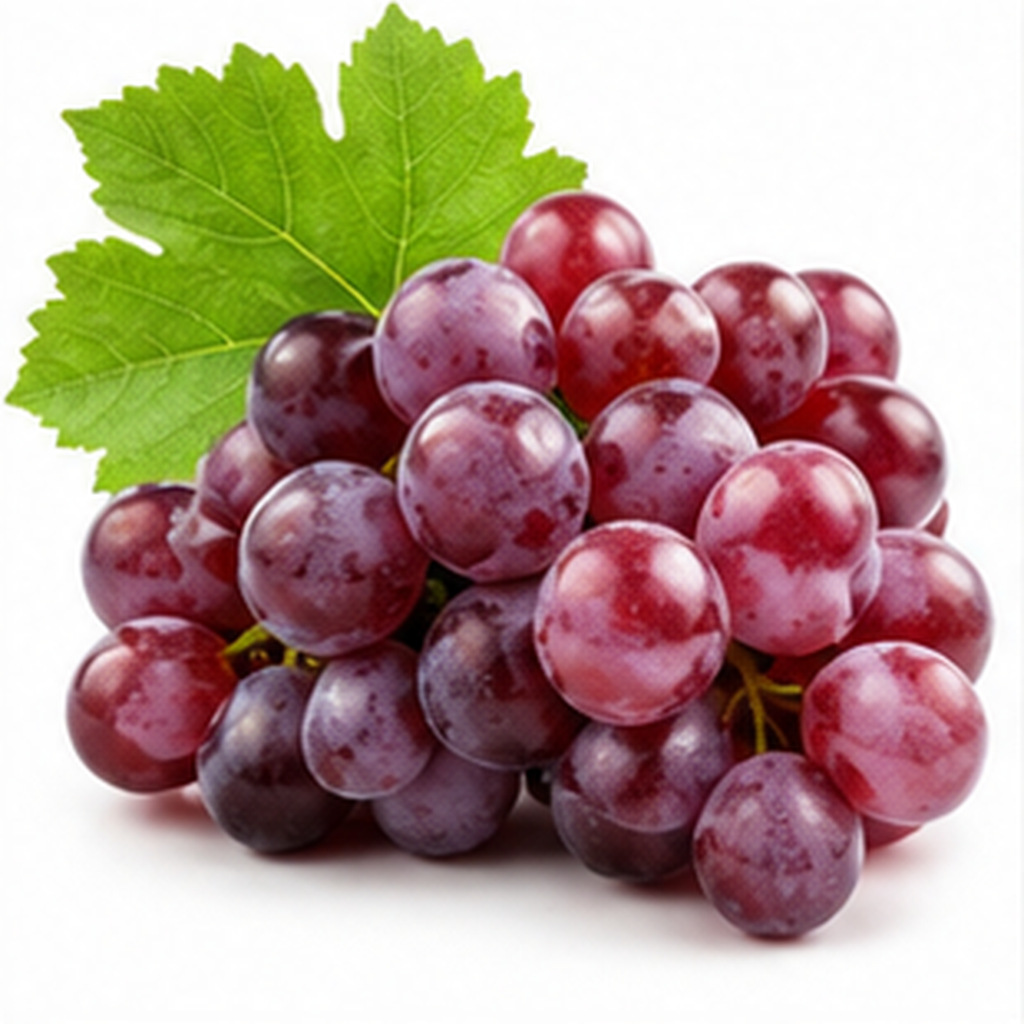
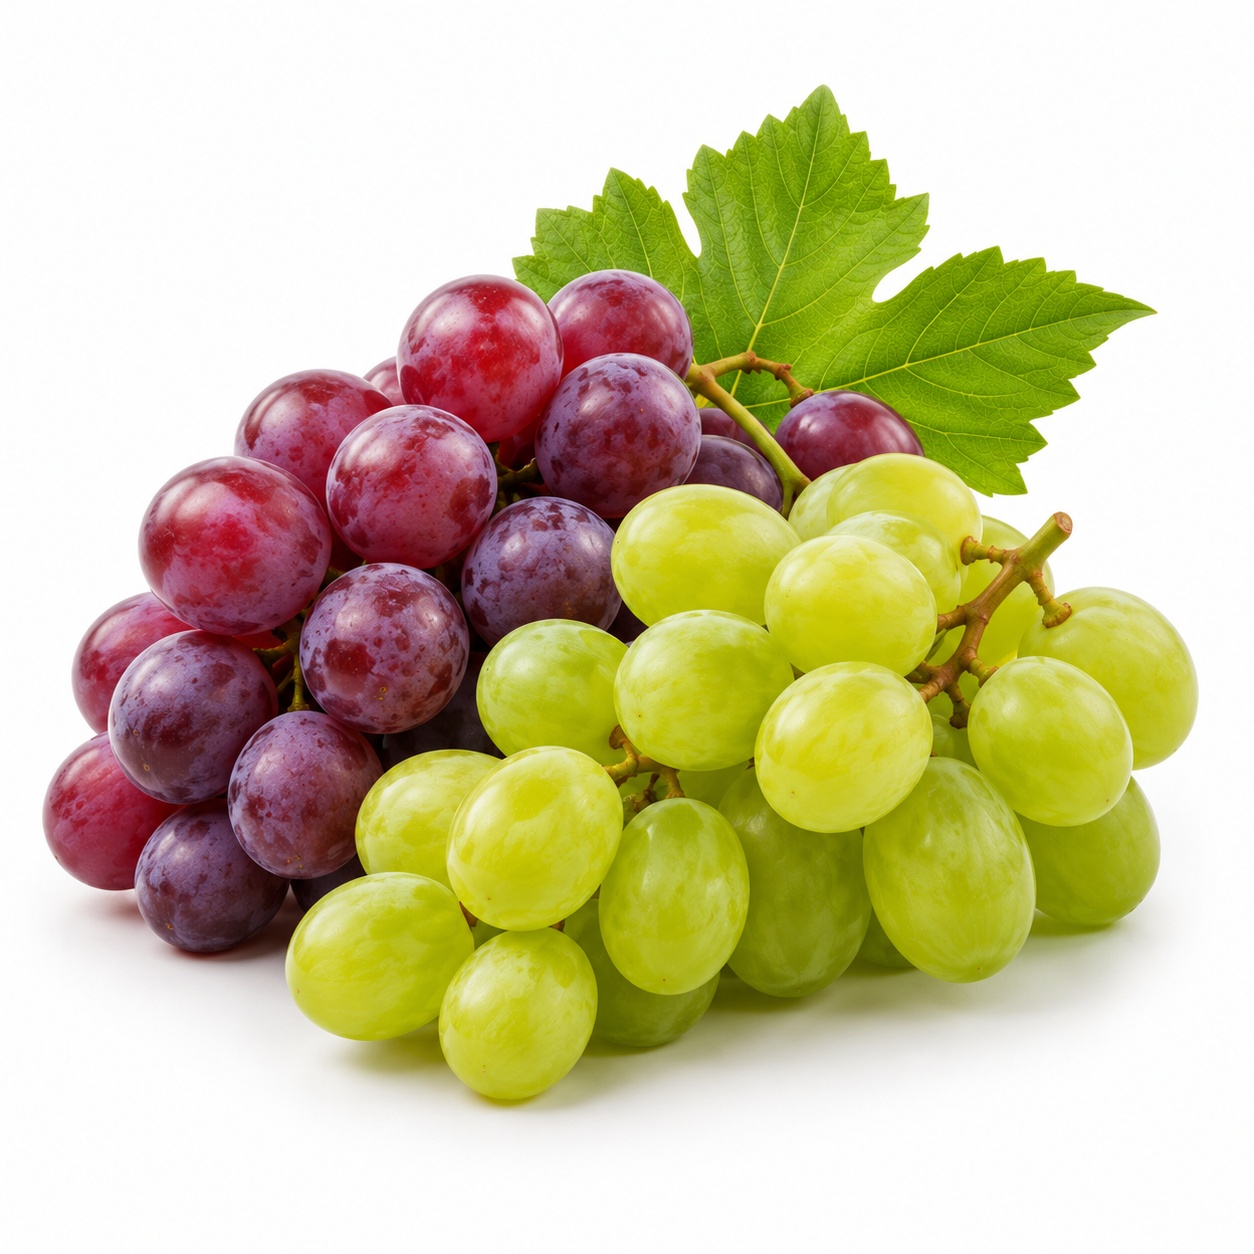
frutas.js acabado

diff --git a/Elsa/js/frutas.js b/Elsa/js/frutas.js
@@ -2,5 +2,96 @@
 
 
 function mostrarCultivos() {
+    // PASO 1: Leer lo que hay en cada desplegable 
+    const tipo = document.getElementById("filtro-tipo").value; 
+    const color = document.getElementById("filtro-color").value; 
+    const temporada = document.getElementById("filtro-temporada").value; 
+
+    // PASO 2: Filtramos
+    let lista = cultivos;
+
+    if (tipo !== "todos") { // si se ha puesto todos --> no filtra
+        const pasanFiltro = []; // vector donde vamos a guardar las frutas/verduras que pasan el filtro
+        for (const cultivo of lista) {
+            if (cultivo.tipo === tipo) { // si coincide con el elegido lo guardamos
+                pasanFiltro.push(cultivo); // push = guardar al final del vector
+            }
+        }
+        lista = pasanFiltro; // la lista a mostrar es solo los filtrados
+    }
+
+    if (color !== "todos") { // si se ha puesto todos --> no filtra
+        const pasanFiltro = []; // vector donde vamos a guardar las frutas/verduras que pasan el filtro
+        for (const cultivo of lista) {
+            if (typeof cultivo.color === "string") { // si solo tiene un color
+                if (cultivo.color === color) { 
+                    pasanFiltro.push(cultivo);
+                }
+            } else {
+                for (const c of cultivo.color) {
+                    if (c === color) {
+                        pasanFiltro.push(cultivo);
+                    }
+                }
+            }
+        }
+        lista = pasanFiltro; // la lista a mostrar es solo los filtrados
+    }
+
+    if (temporada !== "todas") { // si se ha puesto todos --> no filtra
+        const pasanFiltro = []; // vector donde vamos a guardar las frutas/verduras que pasan el filtro
+        for (const cultivo of lista) {
+            if (cultivo.temporada === temporada) { // si coincide con el elegido lo guardamos
+                pasanFiltro.push(cultivo); // push = guardar al final del vector
+            }
+        }
+        lista = pasanFiltro; // la lista a mostrar es solo los filtrados
+    }
+
+    // PASO 3: Ordenamos los cultivos
+    // Ojo! cultivos.js ya esta ordenado alfabeticamente (az) --> si en el filtro ponemos az no hay que hacer nada
+
+    const orden = document.getElementById("filtro-orden").value; // az o za
+
+    if (orden === "za") {
+        const alReves = [];
+        let i = lista.length -1; // resto 1 porque la primera posicion es el cero --> tenemos 0, 1, 2, ..., 13
+        for (i; i>=0; i--) {
+            alReves.push(lista[i]); // recorremos desde el ultimo y lo vamos guardando
+        }
+        lista = alReves;
+    }
+
+
+    // PASO 4: Mostramos las frutas/verduras de lista (mas o menos como el solitario)
+
+    const zona = document.getElementById("lista-cultivos"); // zona de la pagina donde van los cultivos
+    zona.innerHTML = ""; // innerHTML es el contenido de un elemento --> al poner "" vaciamos lista-cultivos (div)
+
+
+    if (lista.length === 0) {
+        zona.innerHTML = "<p>No se ha registrado ningún cultivo que cumpla estos filtros</p>";
+    }
+
+    for  (const cultivo of lista) {
+        const caja = document.createElement("div"); // cajita para cada cultivo --> pondremos su foto y nombre
+        caja.setAttribute("class", "cultivo"); // al div (la cajita) le ponemos class = "cultivo"
+
+        const foto = document.createElement("img");
+        foto.setAttribute("src", "../img/cultivos/" + cultivo.imagen);
+        foto.setAttribute("alt", cultivo.nombre);
+        caja.appendChild(foto); // ponemos la foto dentro del div
+
+        const nombre = document.createElement("p");
+        nombre.innerHTML = cultivo.nombre; 
+        caja.appendChild(nombre);
+
+        zona.appendChild(caja);
+    }
+
     
+
+
 }
+
+mostrarCultivos();

diff --git a/Elsa/js/cultivos.js b/Elsa/js/cultivos.js
@@ -3,7 +3,7 @@
 
 const cultivos = [
 
-    {id:"berenjena",  nombre: "Berenjena", tipo: "verdura", temporada: "verano",    color:"morado",    imagen: "beremjena.jpg"},
+    {id:"berenjena",  nombre: "Berenjena", tipo: "verdura", temporada: "verano",    color:"morado",    imagen: "berenjena.jpg"},
 
     {id: "calabacin", nombre: "Calabacín", tipo: "verdura", temporada: "verano",    color: "verde",    imagen: "calabacin.jpg"},
 
@@ -23,12 +23,12 @@ const cultivos = [
 
     {id: "naranja",   nombre: "Naranja",   tipo: "fruta",   temporada: "invierno",  color: "naranja",  imagen: "naranja.jpg"},
 
-    {id: "pimiento",  nombre: "Pimiento",  tipo: "verdura", temporada: "verano",    color: "rojo",     imagen: "pimiento.png"},
+    {id: "pimiento",  nombre: "Pimiento",  tipo: "verdura", temporada: "verano",    color: ["rojo", "verde", "amarillo", "naranja"], imagen: "pimiento.jpg"},
 
-    {id: "sandia",    nombre: "Sandía",    tipo: "fruta",   temporada: "verano",    color: "verde",    imagen: "sandia.jpg"},
+    {id: "sandia",    nombre: "Sandía",    tipo: "fruta",   temporada: "verano",    color: ["rojo", "verde"],    imagen: "sandia.jpg"},
 
     {id: "tomate",    nombre: "Tomate",    tipo: "verdura", temporada: "verano",    color: "rojo",     imagen: "tomate.jpg"},
 
-    {id: "uva",       nombre: "Uva",       tipo: "fruta",   temporada: "otono",     color: "morado",   imagen: "uva.jpg"}
+    {id: "uva",       nombre: "Uva",       tipo: "fruta",   temporada: "otono",     color: ["morado", "verde"],   imagen: "uva.jpg"}
 
 ];

diff --git a/Elsa/css/frutas.css b/Elsa/css/frutas.css
@@ -1,4 +1,6 @@
 /* Estilos de la página frutas - Responsable: Elsa Blasco Novell */
+
+/* ---------- Filtros de arriba del todo ---------- */
 .filtros {
     display: flex;
     flex-wrap: wrap;
@@ -20,4 +22,47 @@
     border-radius: 18px;
     border: 2px solid #c5dfb5;
     cursor: pointer;
+}
+
+
+/* ---------- Lista de cultivos ---------- */
+.lista-cultivos {
+    display: flex;
+    flex-wrap: wrap;
+    justify-content: center;
+    gap: 30px;
+    margin-top: 45px;
+
+}
+.cultivo { /* caja entera de cada cultivo --> foto + nombre*/
+    width: 160px;
+    height: 160px;
+    text-align: center;
+    cursor: pointer;
+    
+
+}
+.cultivo img {
+    border-radius: 50%;
+    border: 4px solid #c5dfb5;
+    width: 140px;
+    height: 140px;
+    object-fit: contain; /* como se ajusta una img o video dentro de su caja */
+    /*  fill: estira o deforma la img para llenar la caja, por defecto
+        contain: cabe entera sin deformarse, pero puede dejar huecos vacios
+        cover: llena toda la caja recortando lo que sobre, sin deformarla
+        none: mantiene su tamaño original ignorando la caja
+        scale-down: elige automaticamente entre none o contain, el que la deje mas pequenya
+    */
+    padding: 15px; /* espacio entre el aro y la foto */
+    transition: transform 0.5s, border-color 0.5s;
+}
+.cultivo p{
+    font-weight: bold;
+    color: #2d6a4f;
+    margin-top: 8px;
+}
+.cultivo img:hover {
+    transform: scale(1.1);
+    border-color: #6a9a4f;
 }

diff --git a/Elsa/html/frutas.html b/Elsa/html/frutas.html
@@ -69,6 +69,7 @@
 
 
       </div>
+      <div id="lista-cultivos" class="lista-cultivos"></div>
     </main>
 
     <footer>
